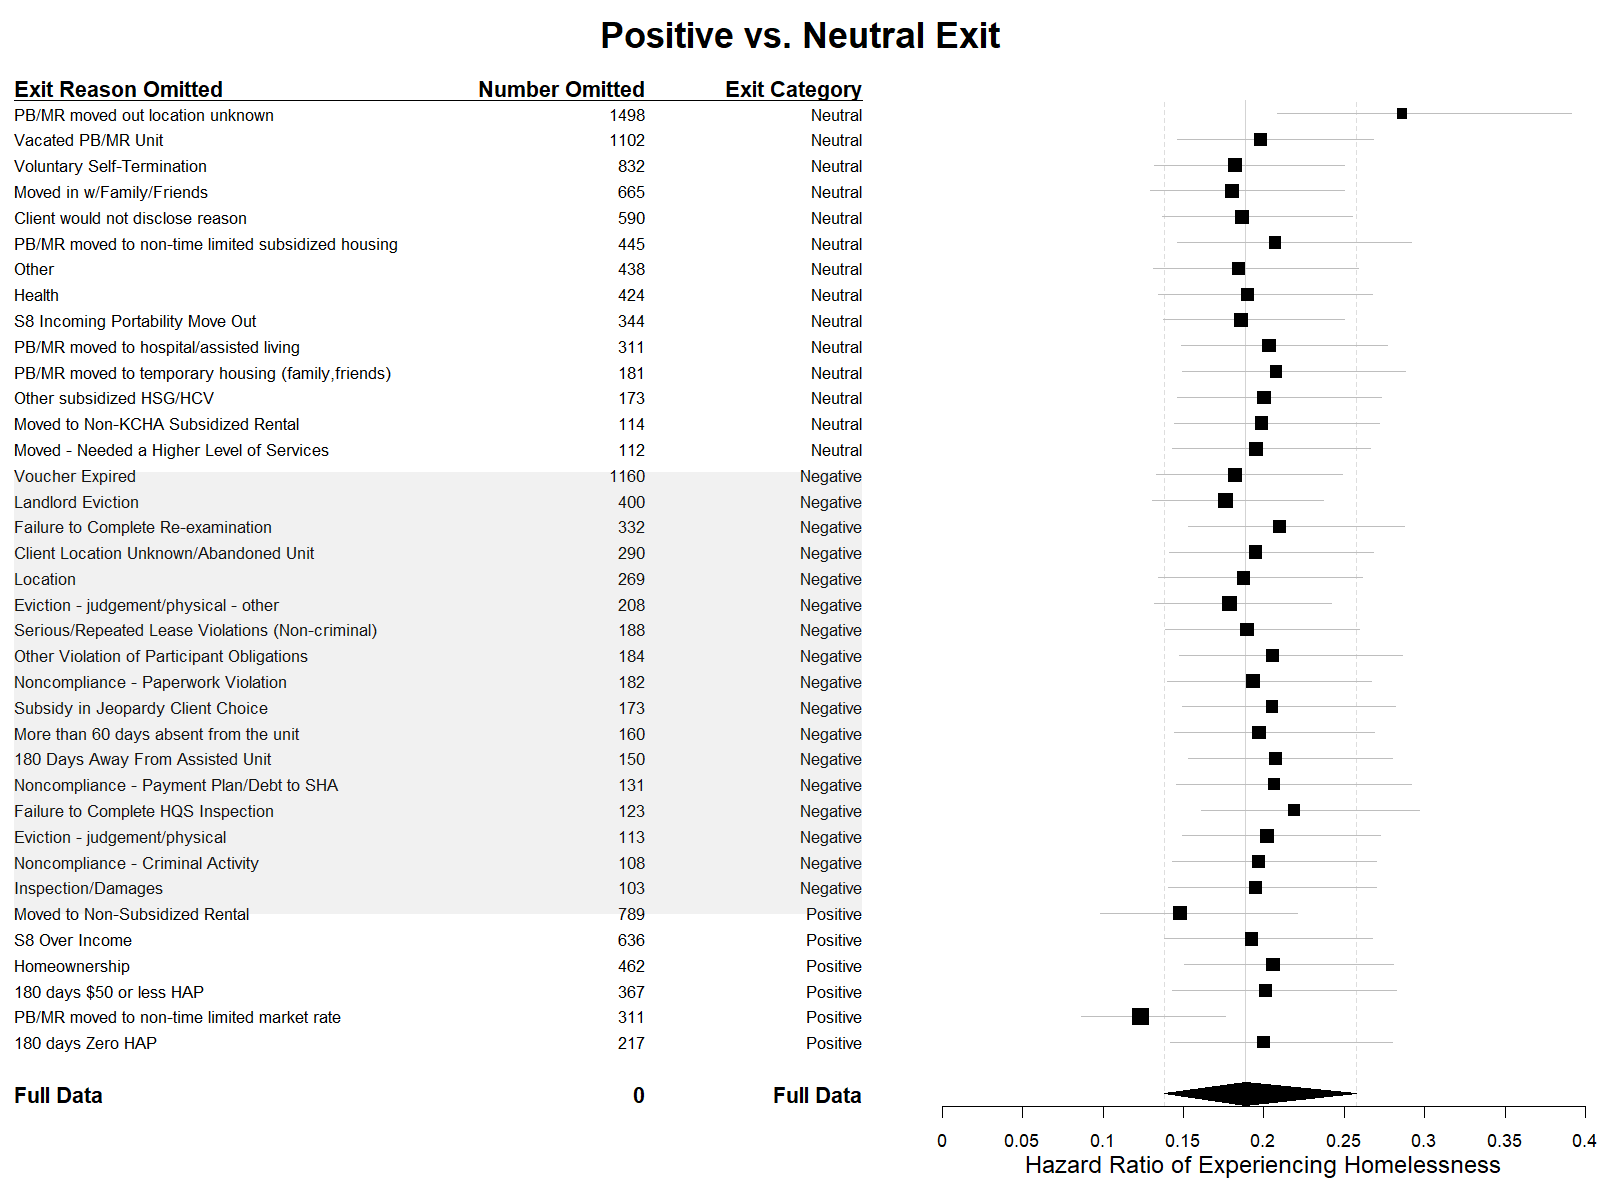
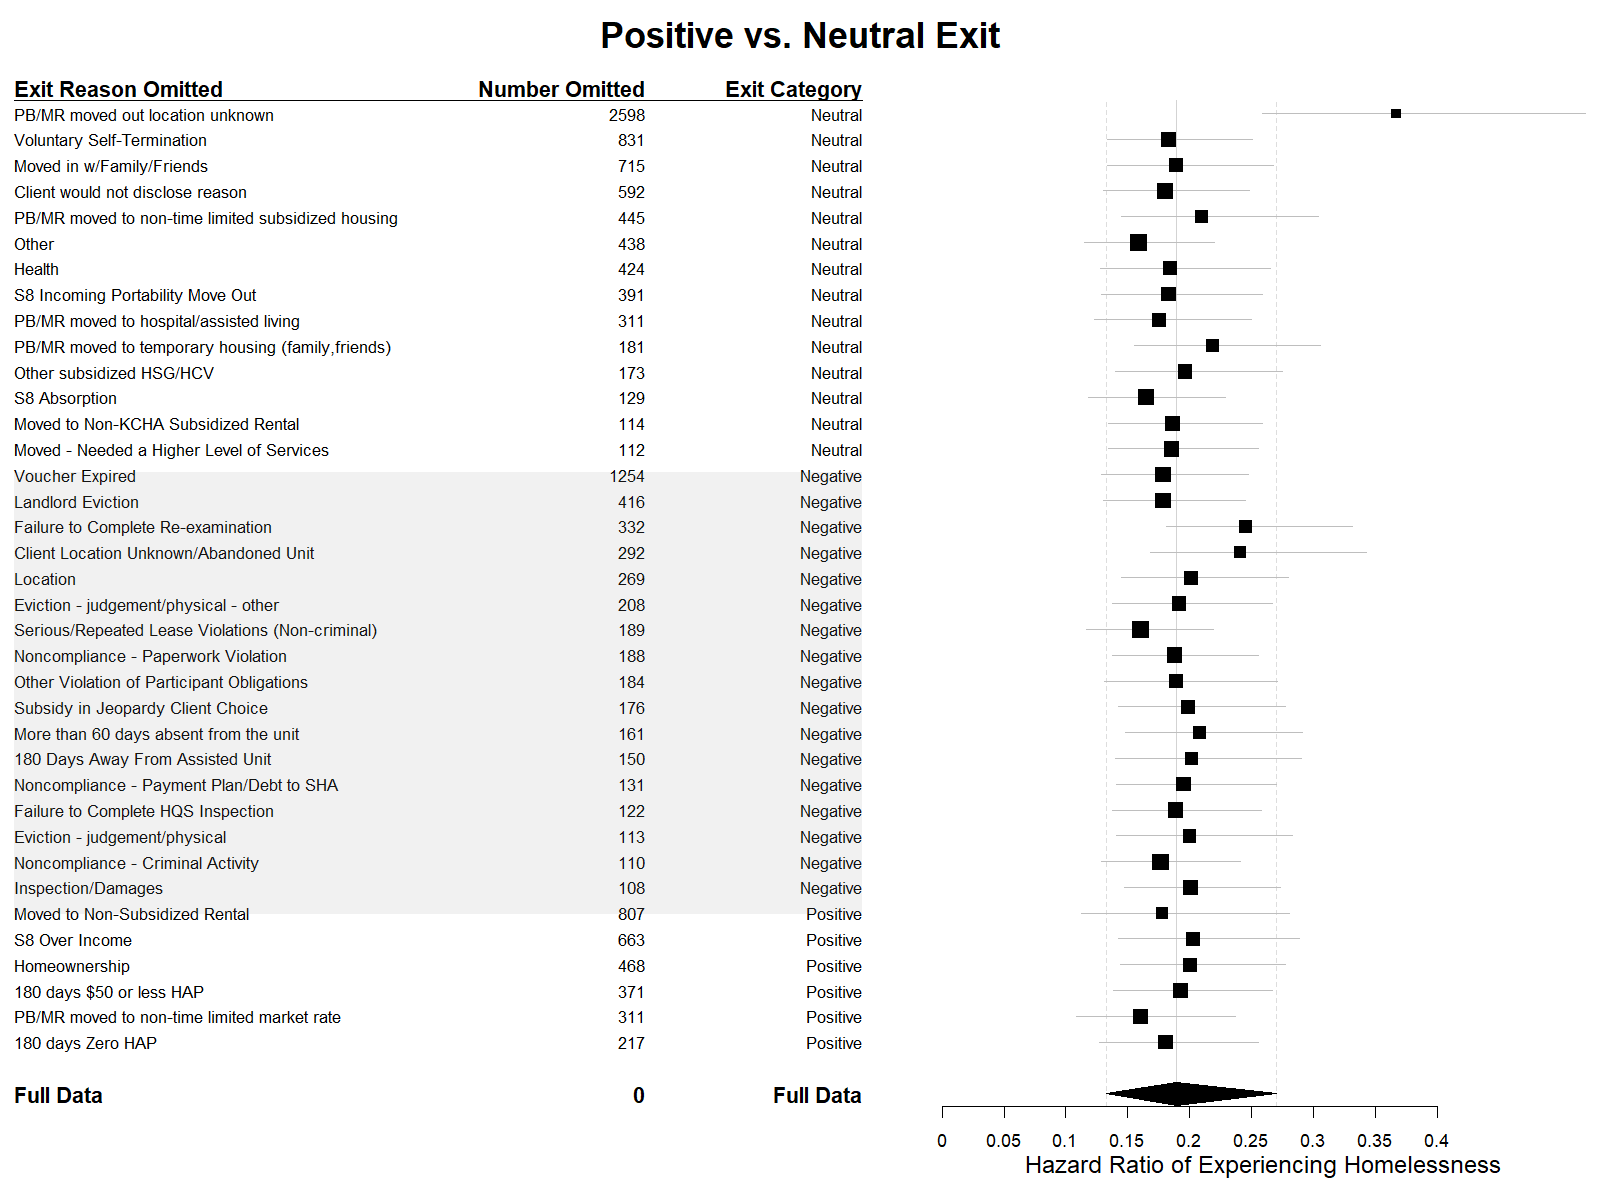
Updated capstone code and output

diff --git a/analyses/capstone/tth_manuscript_table1.html b/analyses/capstone/tth_manuscript_table1.html
@@ -105,8 +105,8 @@ text-align: left;
 <thead>
 <tr>
 <th class="rowlabel firstrow lastrow"></th>
-<th class="firstrow lastrow"><span class="stratlabel">Negative<br><span class="stratn">(N=5524)</span></span></th>
-<th class="firstrow lastrow"><span class="stratlabel">Neutral<br><span class="stratn">(N=8196)</span></span></th>
+<th class="firstrow lastrow"><span class="stratlabel">Negative<br><span class="stratn">(N=5531)</span></span></th>
+<th class="firstrow lastrow"><span class="stratlabel">Neutral<br><span class="stratn">(N=8189)</span></span></th>
 <th class="firstrow lastrow"><span class="stratlabel">Positive<br><span class="stratn">(N=2946)</span></span></th>
 <th class="firstrow lastrow"><span class="stratlabel">Overall<br><span class="stratn">(N=16666)</span></span></th>
 </tr>
@@ -142,14 +142,14 @@ text-align: left;
 </tr>
 <tr>
 <td class="rowlabel">Yes</td>
-<td>4117 (74.5%)</td>
-<td>6991 (85.3%)</td>
+<td>4124 (74.6%)</td>
+<td>6984 (85.3%)</td>
 <td>2855 (96.9%)</td>
 <td>13963 (83.8%)</td>
 </tr>
 <tr>
 <td class="rowlabel lastrow">No</td>
-<td class="lastrow">1407 (25.5%)</td>
+<td class="lastrow">1407 (25.4%)</td>
 <td class="lastrow">1205 (14.7%)</td>
 <td class="lastrow">91 (3.1%)</td>
 <td class="lastrow">2703 (16.2%)</td>
@@ -163,15 +163,15 @@ text-align: left;
 </tr>
 <tr>
 <td class="rowlabel">Female</td>
-<td>2971 (53.8%)</td>
-<td>4400 (53.7%)</td>
+<td>2975 (53.8%)</td>
+<td>4396 (53.7%)</td>
 <td>1593 (54.1%)</td>
 <td>8964 (53.8%)</td>
 </tr>
 <tr>
 <td class="rowlabel">Male</td>
-<td>2468 (44.7%)</td>
-<td>3696 (45.1%)</td>
+<td>2471 (44.7%)</td>
+<td>3693 (45.1%)</td>
 <td>1312 (44.5%)</td>
 <td>7476 (44.9%)</td>
 </tr>
@@ -205,8 +205,8 @@ text-align: left;
 </tr>
 <tr>
 <td class="rowlabel">Black</td>
-<td>2435 (44.1%)</td>
-<td>3341 (40.8%)</td>
+<td>2442 (44.2%)</td>
+<td>3334 (40.7%)</td>
 <td>1372 (46.6%)</td>
 <td>7148 (42.9%)</td>
 </tr>
@@ -219,8 +219,8 @@ text-align: left;
 </tr>
 <tr>
 <td class="rowlabel">Multiple</td>
-<td>500 (9.1%)</td>
-<td>594 (7.2%)</td>
+<td>500 (9.0%)</td>
+<td>594 (7.3%)</td>
 <td>266 (9.0%)</td>
 <td>1360 (8.2%)</td>
 </tr>
@@ -283,7 +283,7 @@ text-align: left;
 <tr>
 <td class="rowlabel">Mean (SD)</td>
 <td>5.84 (4.11)</td>
-<td>4.66 (3.97)</td>
+<td>4.65 (3.96)</td>
 <td>6.97 (4.17)</td>
 <td>5.46 (4.14)</td>
 </tr>
@@ -310,14 +310,14 @@ text-align: left;
 </tr>
 <tr>
 <td class="rowlabel">KCHA</td>
-<td>2222 (40.2%)</td>
-<td>2134 (26.0%)</td>
+<td>2229 (40.3%)</td>
+<td>2127 (26.0%)</td>
 <td>1267 (43.0%)</td>
 <td>5623 (33.7%)</td>
 </tr>
 <tr>
 <td class="rowlabel lastrow">SHA</td>
-<td class="lastrow">3302 (59.8%)</td>
+<td class="lastrow">3302 (59.7%)</td>
 <td class="lastrow">6062 (74.0%)</td>
 <td class="lastrow">1679 (57.0%)</td>
 <td class="lastrow">11043 (66.3%)</td>
@@ -330,18 +330,32 @@ text-align: left;
 <td class="firstrow"></td>
 </tr>
 <tr>
-<td class="rowlabel">HCV</td>
-<td>4410 (79.8%)</td>
-<td>6699 (81.7%)</td>
-<td>2187 (74.2%)</td>
-<td>13296 (79.8%)</td>
+<td class="rowlabel">PBV</td>
+<td>1009 (18.2%)</td>
+<td>4528 (55.3%)</td>
+<td>774 (26.3%)</td>
+<td>6311 (37.9%)</td>
 </tr>
 <tr>
-<td class="rowlabel lastrow">PH</td>
-<td class="lastrow">1114 (20.2%)</td>
-<td class="lastrow">1497 (18.3%)</td>
-<td class="lastrow">759 (25.8%)</td>
-<td class="lastrow">3370 (20.2%)</td>
+<td class="rowlabel">PH</td>
+<td>1104 (20.0%)</td>
+<td>1444 (17.6%)</td>
+<td>751 (25.5%)</td>
+<td>3299 (19.8%)</td>
+</tr>
+<tr>
+<td class="rowlabel">TBV</td>
+<td>3406 (61.6%)</td>
+<td>2210 (27.0%)</td>
+<td>1419 (48.2%)</td>
+<td>7035 (42.2%)</td>
+</tr>
+<tr>
+<td class="rowlabel lastrow">Missing</td>
+<td class="lastrow">12 (0.2%)</td>
+<td class="lastrow">7 (0.1%)</td>
+<td class="lastrow">2 (0.1%)</td>
+<td class="lastrow">21 (0.1%)</td>
 </tr>
 <tr>
 <td class="rowlabel firstrow">Household size</td>
@@ -352,7 +366,7 @@ text-align: left;
 </tr>
 <tr>
 <td class="rowlabel">Mean (SD)</td>
-<td>3.23 (2.07)</td>
+<td>3.24 (2.08)</td>
 <td>2.91 (2.14)</td>
 <td>3.89 (2.13)</td>
 <td>3.19 (2.14)</td>
@@ -380,8 +394,8 @@ text-align: left;
 </tr>
 <tr>
 <td class="rowlabel">No</td>
-<td>3877 (70.2%)</td>
-<td>5585 (68.1%)</td>
+<td>3884 (70.2%)</td>
+<td>5578 (68.1%)</td>
 <td>2489 (84.5%)</td>
 <td>11951 (71.7%)</td>
 </tr>
@@ -408,15 +422,15 @@ text-align: left;
 </tr>
 <tr>
 <td class="rowlabel">No</td>
-<td>3701 (67.0%)</td>
-<td>6107 (74.5%)</td>
+<td>3701 (66.9%)</td>
+<td>6107 (74.6%)</td>
 <td>2463 (83.6%)</td>
 <td>12271 (73.6%)</td>
 </tr>
 <tr>
 <td class="rowlabel">Yes</td>
-<td>1762 (31.9%)</td>
-<td>1987 (24.2%)</td>
+<td>1769 (32.0%)</td>
+<td>1980 (24.2%)</td>
 <td>457 (15.5%)</td>
 <td>4206 (25.2%)</td>
 </tr>
@@ -426,34 +440,6 @@ text-align: left;
 <td class="lastrow">102 (1.2%)</td>
 <td class="lastrow">26 (0.9%)</td>
 <td class="lastrow">189 (1.1%)</td>
-</tr>
-<tr>
-<td class="rowlabel firstrow">Opportunity index score</td>
-<td class="firstrow"></td>
-<td class="firstrow"></td>
-<td class="firstrow"></td>
-<td class="firstrow"></td>
-</tr>
-<tr>
-<td class="rowlabel">Mean (SD)</td>
-<td>0.00391 (0.441)</td>
-<td>0.179 (0.515)</td>
-<td>0.00764 (0.406)</td>
-<td>0.0909 (0.481)</td>
-</tr>
-<tr>
-<td class="rowlabel">Median [Min, Max]</td>
-<td>-0.116 [-1.46, 1.70]</td>
-<td>0.0572 [-1.46, 1.70]</td>
-<td>-0.104 [-0.703, 1.70]</td>
-<td>-0.0661 [-1.46, 1.70]</td>
-</tr>
-<tr>
-<td class="rowlabel lastrow">Missing</td>
-<td class="lastrow">139 (2.5%)</td>
-<td class="lastrow">190 (2.3%)</td>
-<td class="lastrow">58 (2.0%)</td>
-<td class="lastrow">387 (2.3%)</td>
 </tr>
 </tbody>
 </table>
